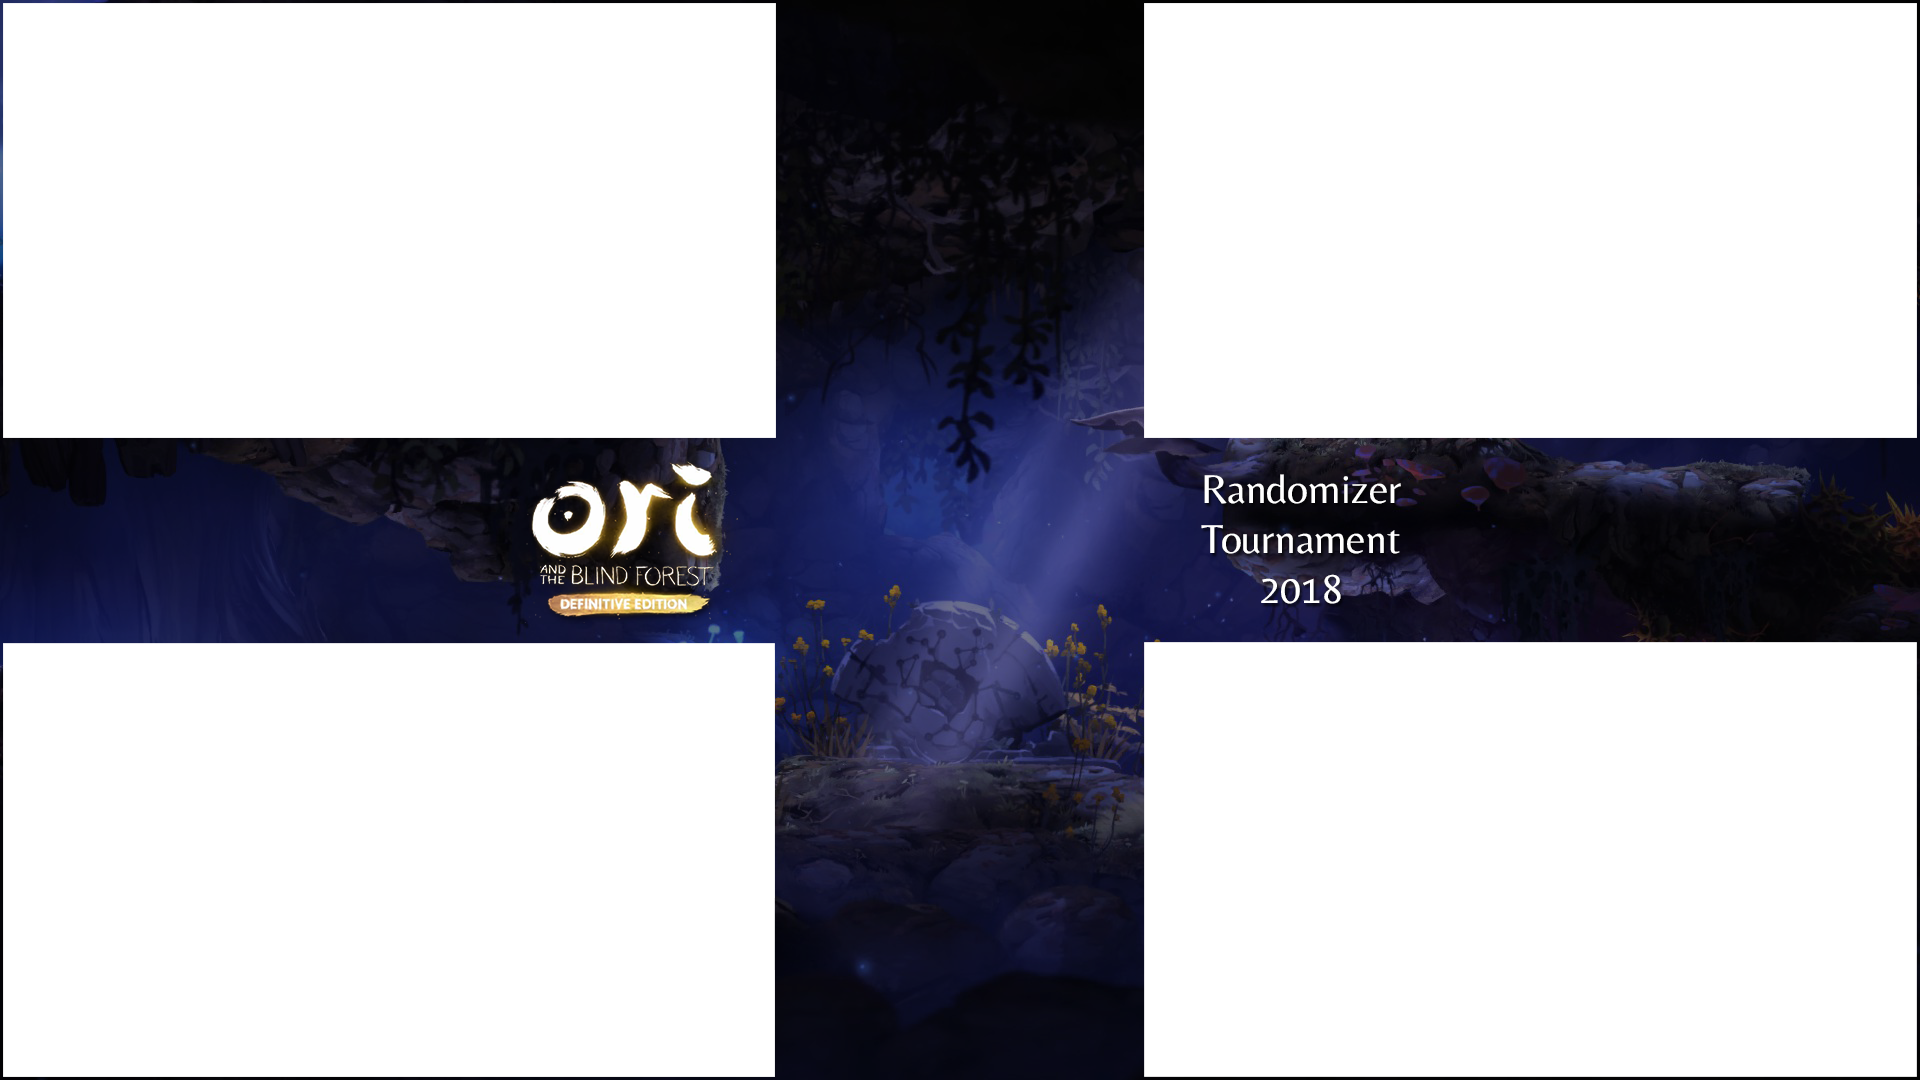
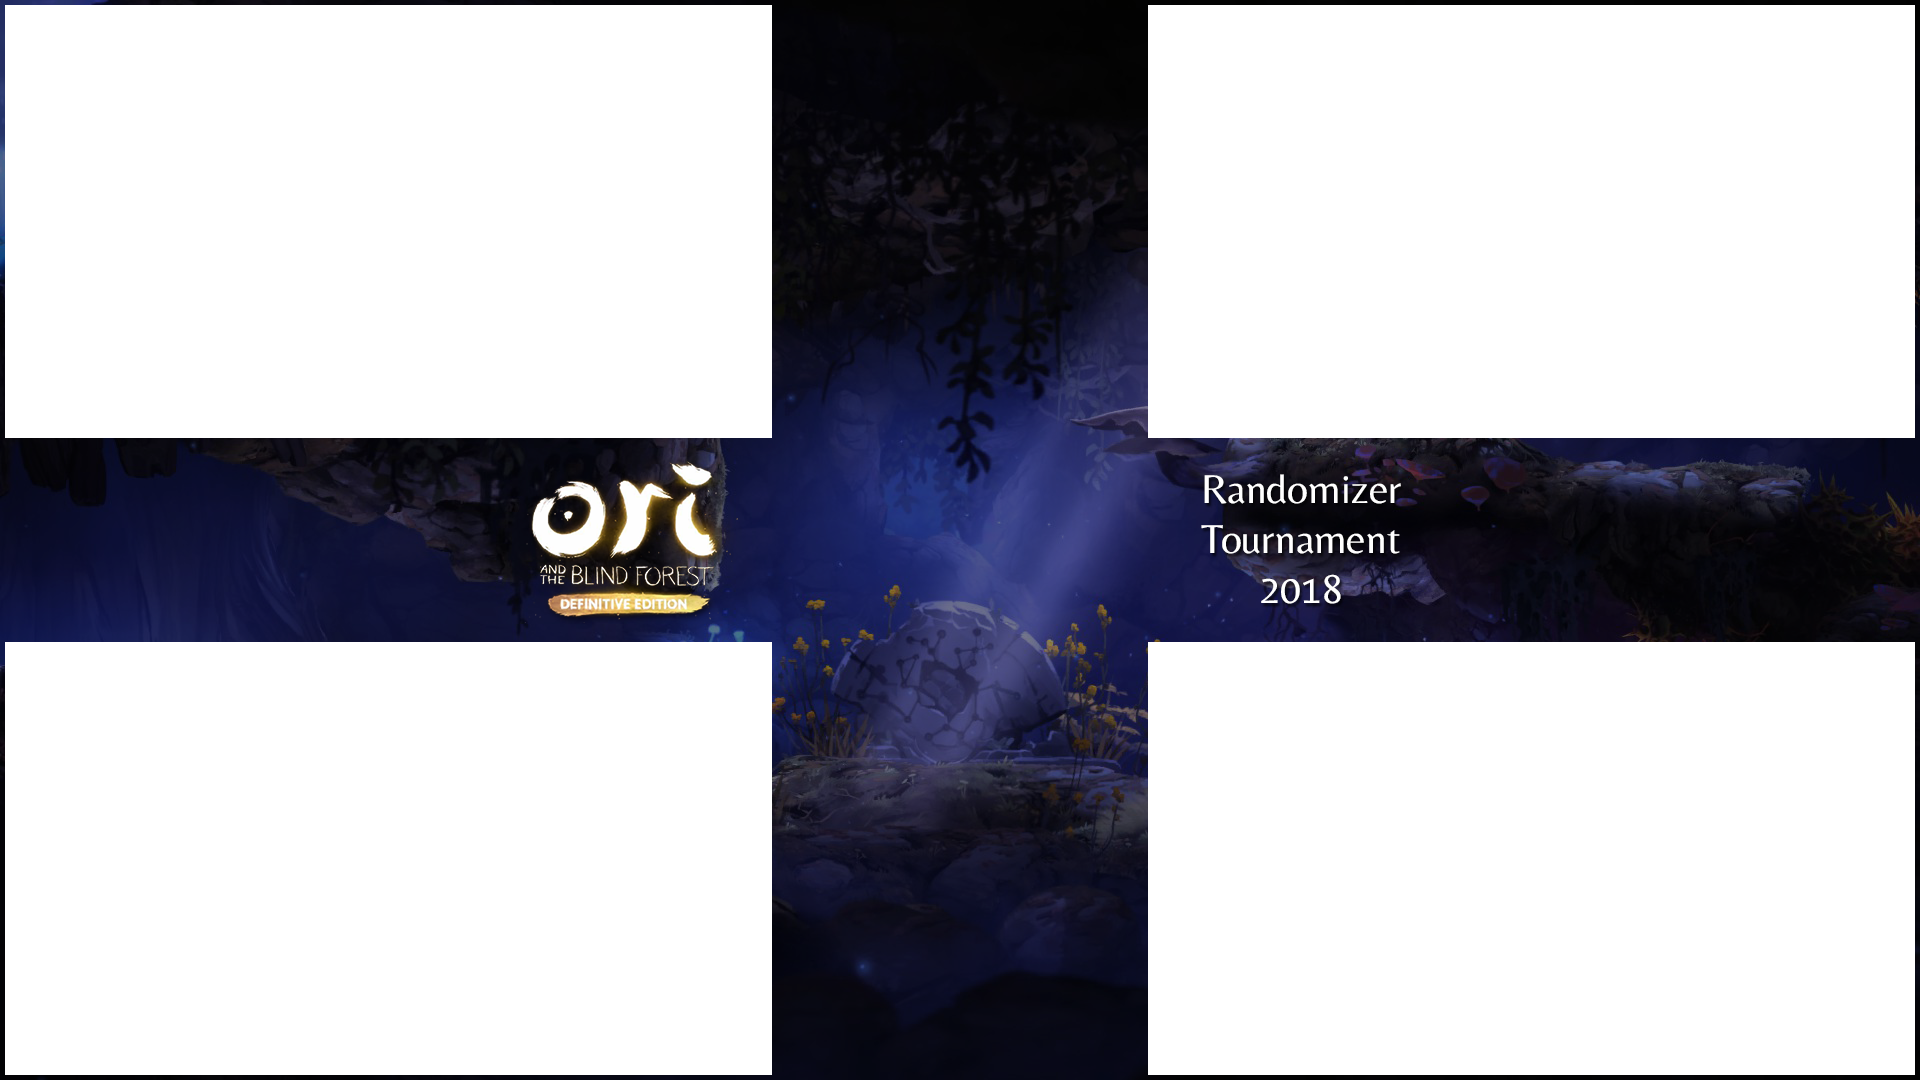
Fix Layout for 4-Way

diff --git a/src/app/stream-4way/stream-4way.css b/src/app/stream-4way/stream-4way.css
@@ -18,10 +18,10 @@
     margin-top: 3px;
     padding-top: 5px;
     padding-bottom: 5px;
-    width: 368px;
-    color:  rgb(255, 159, 34);
+    width: 372px;
+    color:  rgb(252, 176, 77);
     box-sizing: border-box;
-    border-color: rgba(255, 145, 0, 0.5);
+    border-color: rgba(252, 176, 77, 0.5);
     border-width: 2px;
     border-top-style: solid;
     border-bottom-style: solid;
@@ -29,14 +29,14 @@
 
 .team2 {
     float: left;
-    margin-top: 383px;
+    margin-top: 386px;
     padding-top: 5px;
     padding-bottom: 5px;
     text-align: center;
-    width: 368px;
-    color: rgb(114, 217, 248);
+    width: 372px;
+    color: rgb(149, 229, 253);
     box-sizing: border-box;
-    border-color: rgba(70, 206, 247, 0.5);
+    border-color: rgba(149, 229, 253, 0.5);
     border-width: 2px;
     border-top-style: solid;
     border-bottom-style: solid;
@@ -44,11 +44,11 @@
 
 .stream-placeholder-top-left {
     float: left;
-    width: 773px; /* (stream_width - margins)/2 = (1920 - 4*5px)/2 = 950px */
-    height: 435px; /* racefeed_width * 9 / 16 = 950 * 9 / 16 = 534.375px */
+    width: 771px; /* (stream_width - margins)/2 = (1920 - 4*5px)/2 = 950px */
+    height: 437px; /* racefeed_width * 9 / 16 = 950 * 9 / 16 = 534.375px */
     margin: 3px 0px 0px 3px;
     box-sizing: border-box;
-    border-color: rgba(255, 145, 0, 0.5);
+    border-color: rgba(252, 176, 77, 0.5);
     border-style: solid;
     border-width: 2px;
     border-radius: 4px;
@@ -56,11 +56,11 @@
 
 .stream-placeholder-top-right {
     float: left;
-    width: 773px; /* (stream_width - margins)/2 = (1920 - 4*5px)/2 = 950px */
-    height: 435px; /* racefeed_width * 9 / 16 = 950 * 9 / 16 = 534.375px */
-    margin: 3px 0px 0px 0px;
+    width: 771px; /* (stream_width - margins)/2 = (1920 - 4*5px)/2 = 950px */
+    height: 437px; /* racefeed_width * 9 / 16 = 950 * 9 / 16 = 534.375px */
+    margin: 3px 3px 0px 0px;
     box-sizing: border-box;
-    border-color: rgba(255, 145, 0, 0.5);
+    border-color: rgba(252, 176, 77, 0.5);
     border-style: solid;
     border-width: 2px;
     border-radius: 4px;
@@ -68,11 +68,11 @@
 
 .stream-placeholder-bottom-left {
     float: left;
-    width: 773px; /* (stream_width - margins)/2 = (1920 - 4*5px)/2 = 950px */
-    height: 435px; /* racefeed_width * 9 / 16 = 950 * 9 / 16 = 534.375px */
-    margin: -1px 0px 0px 3px;
+    width: 771px; /* (stream_width - margins)/2 = (1920 - 4*5px)/2 = 950px */
+    height: 437px; /* racefeed_width * 9 / 16 = 950 * 9 / 16 = 534.375px */
+    margin: 0px 0px 3px 3px;
     box-sizing: border-box;
-    border-color: rgba(70, 206, 247, 0.5);
+    border-color: rgba(149, 229, 253, 0.5);
     border-style: solid;
     border-width: 2px;
     border-radius: 4px;
@@ -80,11 +80,11 @@
 
 .stream-placeholder-bottom-right {
     float: left;
-    width: 773px; /* (stream_width - margins)/2 = (1920 - 4*5px)/2 = 950px */
-    height: 435px; /* racefeed_width * 9 / 16 = 950 * 9 / 16 = 534.375px */
-    margin: -1px 3px 0px 0px;
+    width: 771px; /* (stream_width - margins)/2 = (1920 - 4*5px)/2 = 950px */
+    height: 437px; /* racefeed_width * 9 / 16 = 950 * 9 / 16 = 534.375px */
+    margin: 0px 3px 3px 0px;
     box-sizing: border-box;
-    border-color: rgba(70, 206, 247, 0.5);
+    border-color: rgba(149, 229, 253, 0.5);
     border-style: solid;
     border-width: 2px;
     border-radius: 4px;
@@ -93,7 +93,7 @@
 .middle-team1 {
     float: left;
     width: 100%;
-    height: 100px;
+    height: 95px;
 }
 
 .middle-team2 {
@@ -106,7 +106,7 @@
     float: left;
     width: 766px;
     padding: 20px 0px 0px 10px;
-    color:  rgb(255, 159, 34);
+    color:  rgb(252, 176, 77);
 }
 
 .player2 {
@@ -114,7 +114,7 @@
     width: 766px;
     padding: 20px 10px 0px 0px;
     text-align: right;
-    color:  rgb(255, 159, 34);
+    color:  rgb(252, 176, 77);
 }
 
 .matchType {
@@ -146,7 +146,7 @@
     width: 756px;
     padding: 45px 0px 0px 10px;
     vertical-align: text-bottom;
-    color: rgb(114, 217, 248);
+    color: rgb(149, 229, 253);
 }
 
 .player4 { 
@@ -154,5 +154,5 @@
     text-align: right;
     width: 756px;
     padding: 45px 10px 0px 0px;
-    color: rgb(114, 217, 248);
+    color: rgb(149, 229, 253);
 }

diff --git a/src/app/controls/controls.html b/src/app/controls/controls.html
@@ -93,7 +93,7 @@
 
 		<label class="label r11 c1" for="p1Seed">Seed</label>
 		<input id="p1Seed" class="seed r11 c2" [(ngModel)]="p1_seed" placeholder="BRACKET STAGE ONLY"/>
-		<input type="button" class="btn btn-warning r10 c3 col-1" value="WINNER" (click)="player1Winner()" />
+		<!-- <input type="button" class="btn btn-warning r10 c3 col-1" value="WINNER" (click)="player1Winner()" /> -->
 
         <div class="col-4 center label-big players r8 c5">PLAYER 2 - Wins:
 			<input class="p2Wins" type="number" [(ngModel)]="p2_wins" />
@@ -108,7 +108,7 @@
 
 		<label class="label r11 c5" for="p2Seed">Seed</label>
 		<input id="p2Seed" class="seed r11 c6" [(ngModel)]="p2_seed" placeholder="BRACKET STAGE ONLY"/>
-		<input type="button" class="btn btn-warning r10 c7 col-1" value="WINNER" (click)="player2Winner()" />
+		<!-- <input type="button" class="btn btn-warning r10 c7 col-1" value="WINNER" (click)="player2Winner()" /> -->
 
 		<hr class="spacer r12 c1" />
 
@@ -116,7 +116,7 @@
 			<input class="p1Wins" type="number" [(ngModel)]="p1_wins" />
 		</div>
 		<label class="label r14 c1" for="t1Id">Name</label>
-		<input type="button" class="btn btn-warning r14 c3 col-1" value="WINNER" (click)="player1Winner()" />
+		<!-- <input type="button" class="btn btn-warning r14 c3 col-1" value="WINNER" (click)="player1Winner()" /> -->
 		<select class="twitch r14 c2" [(ngModel)]="t1Id">
 			<option *ngFor="let option of vm.teams" [value]="option.id" >{{ option.name }}</option>
 		</select>
@@ -125,7 +125,7 @@
 			<input class="p2Wins" type="number" [(ngModel)]="p2_wins" />
 		</div>
 		<label class="label r14 c5" for="t2Id">Name</label>
-		<input type="button" class="btn btn-warning r14 c7 col-1" value="WINNER" (click)="player2Winner()" />
+		<!-- <input type="button" class="btn btn-warning r14 c7 col-1" value="WINNER" (click)="player2Winner()" /> -->
 		<select class="twitch r14 c6" [(ngModel)]="t2Id">
 			<option *ngFor="let option of vm.teams" [value]="option.id" >{{ option.name }}</option>
 		</select>
